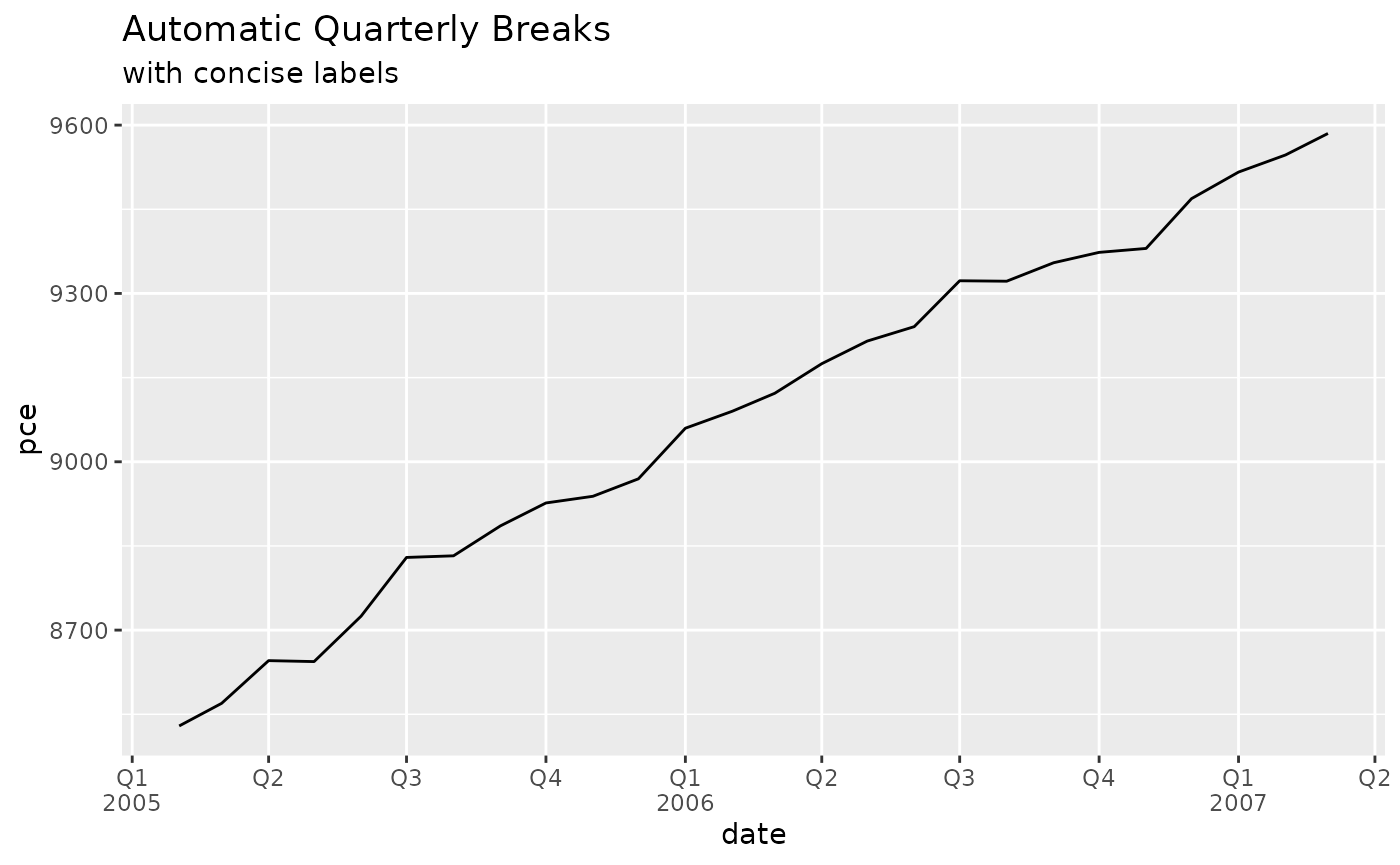
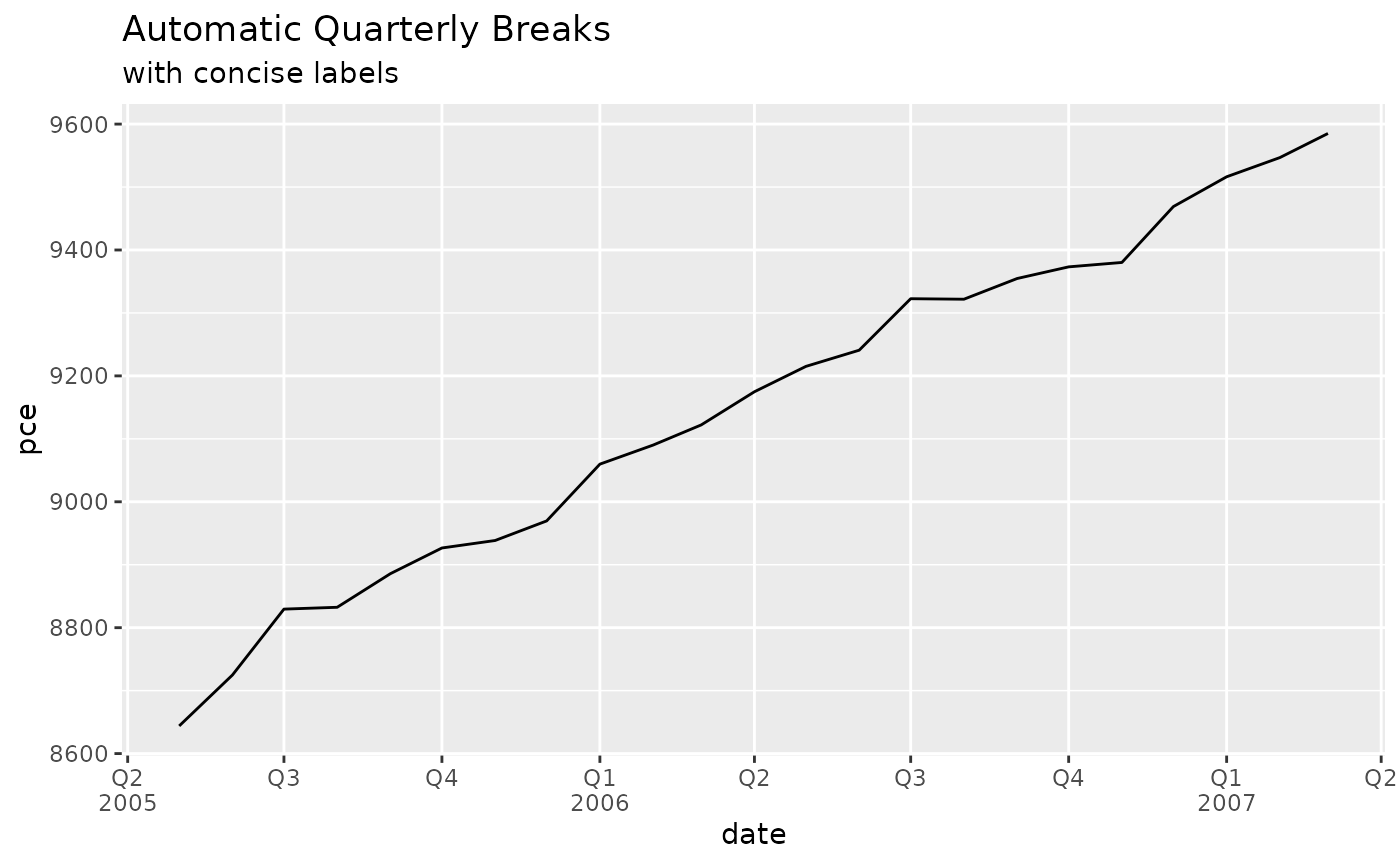
Deploying to gh-pages from @ mcaselli/mcrutils@fc2ebdc03b00fa961e46ab22be862fc64978b613 🚀

diff --git a/index.html b/index.html
@@ -78,21 +78,19 @@
 <span>  non_logical_factor <span class="op">=</span> <span class="fu"><a href="https://rdrr.io/r/base/factor.html" class="external-link">factor</a></span><span class="op">(</span><span class="fu"><a href="https://rdrr.io/r/base/c.html" class="external-link">c</a></span><span class="op">(</span><span class="st">"x"</span>, <span class="st">"y"</span>, <span class="st">"z"</span><span class="op">)</span><span class="op">)</span>,</span>
 <span>  mixed_char <span class="op">=</span> <span class="fu"><a href="https://rdrr.io/r/base/c.html" class="external-link">c</a></span><span class="op">(</span><span class="st">"T"</span>, <span class="st">"F"</span>, <span class="st">"a"</span><span class="op">)</span>,</span>
 <span>  mixed_factor <span class="op">=</span> <span class="fu"><a href="https://rdrr.io/r/base/factor.html" class="external-link">factor</a></span><span class="op">(</span><span class="fu"><a href="https://rdrr.io/r/base/c.html" class="external-link">c</a></span><span class="op">(</span><span class="st">"TRUE"</span>, <span class="st">"FALSE"</span>, <span class="st">"x"</span><span class="op">)</span><span class="op">)</span>,</span>
-<span>  numeric_col <span class="op">=</span> <span class="fu"><a href="https://rdrr.io/r/base/c.html" class="external-link">c</a></span><span class="op">(</span><span class="fl">1.1</span>, <span class="fl">2.2</span>, <span class="fl">3.3</span><span class="op">)</span>,</span>
-<span>  stringsAsFactors <span class="op">=</span> <span class="cn">FALSE</span></span>
+<span>  numeric_col <span class="op">=</span> <span class="fu"><a href="https://rdrr.io/r/base/c.html" class="external-link">c</a></span><span class="op">(</span><span class="fl">1.1</span>, <span class="fl">2.2</span>, <span class="fl">3.3</span><span class="op">)</span></span>
 <span><span class="op">)</span></span>
 <span></span>
 <span></span>
 <span><span class="va">ugly_data</span> <span class="op">|&gt;</span> <span class="fu"><a href="reference/normalize_logicals.html">normalize_logicals</a></span><span class="op">(</span><span class="op">)</span></span>
 <span><span class="co">#&gt; Converted "logical_char" and "logical_factor" columns to logical.</span></span>
-<span><span class="co">#&gt; # A tibble: 3 × 8</span></span>
+<span><span class="co">#&gt; # A tibble: 3 × 7</span></span>
 <span><span class="co">#&gt;   logical_char logical_factor non_logical_char non_logical_factor mixed_char</span></span>
 <span><span class="co">#&gt;   &lt;lgl&gt;        &lt;lgl&gt;          &lt;chr&gt;            &lt;fct&gt;              &lt;chr&gt;     </span></span>
 <span><span class="co">#&gt; 1 TRUE         TRUE           a                x                  T         </span></span>
 <span><span class="co">#&gt; 2 FALSE        FALSE          b                y                  F         </span></span>
 <span><span class="co">#&gt; 3 TRUE         TRUE           c                z                  a         </span></span>
-<span><span class="co">#&gt; # ℹ 3 more variables: mixed_factor &lt;fct&gt;, numeric_col &lt;dbl&gt;,</span></span>
-<span><span class="co">#&gt; #   stringsAsFactors &lt;lgl&gt;</span></span></code></pre></div>
+<span><span class="co">#&gt; # ℹ 2 more variables: mixed_factor &lt;fct&gt;, numeric_col &lt;dbl&gt;</span></span></code></pre></div>
 </div>
 <div class="section level3">
 <h3 id="year-to-date-helpers">Year-to-date helpers<a class="anchor" aria-label="anchor" href="#year-to-date-helpers"></a>
@@ -102,7 +100,7 @@
 <p>Below we have 2.5 years of historical sales data ending on June 1, 2025. How were the sales in the comparable period of 2024 and 2023?</p>
 <div class="sourceCode" id="cb3"><pre class="downlit sourceCode r">
 <code class="sourceCode R"><span><span class="fu"><a href="https://rdrr.io/r/base/Random.html" class="external-link">set.seed</a></span><span class="op">(</span><span class="fl">123</span><span class="op">)</span></span>
-<span><span class="va">sales</span> <span class="op">&lt;-</span> <span class="fu"><a href="https://rdrr.io/r/base/data.frame.html" class="external-link">data.frame</a></span><span class="op">(</span></span>
+<span><span class="va">sales</span> <span class="op">&lt;-</span> <span class="fu"><a href="https://tibble.tidyverse.org/reference/tibble.html" class="external-link">tibble</a></span><span class="op">(</span></span>
 <span>  date <span class="op">=</span> <span class="fu"><a href="https://rdrr.io/r/base/seq.html" class="external-link">seq</a></span><span class="op">(</span></span>
 <span>    from <span class="op">=</span> <span class="fu"><a href="https://rdrr.io/r/base/as.Date.html" class="external-link">as.Date</a></span><span class="op">(</span><span class="st">"2023-01-01"</span><span class="op">)</span>,</span>
 <span>    to <span class="op">=</span> <span class="fu"><a href="https://rdrr.io/r/base/as.Date.html" class="external-link">as.Date</a></span><span class="op">(</span><span class="st">"2025-06-01"</span><span class="op">)</span>,</span>
@@ -112,7 +110,9 @@
 <span><span class="op">)</span></span>
 <span></span>
 <span><span class="fu"><a href="https://rdrr.io/r/utils/head.html" class="external-link">head</a></span><span class="op">(</span><span class="va">sales</span><span class="op">)</span></span>
-<span><span class="co">#&gt;         date amount</span></span>
+<span><span class="co">#&gt; # A tibble: 6 × 2</span></span>
+<span><span class="co">#&gt;   date       amount</span></span>
+<span><span class="co">#&gt;   &lt;date&gt;      &lt;int&gt;</span></span>
 <span><span class="co">#&gt; 1 2023-01-01     94</span></span>
 <span><span class="co">#&gt; 2 2023-02-01    111</span></span>
 <span><span class="co">#&gt; 3 2023-03-01     83</span></span>
@@ -171,7 +171,7 @@
 <code class="sourceCode R"><span><span class="kw"><a href="https://rdrr.io/r/base/library.html" class="external-link">library</a></span><span class="op">(</span><span class="va"><a href="https://ggplot2.tidyverse.org" class="external-link">ggplot2</a></span><span class="op">)</span></span>
 <span></span>
 <span><span class="va">economics</span> <span class="op">|&gt;</span></span>
-<span>  <span class="fu"><a href="https://dplyr.tidyverse.org/reference/filter.html" class="external-link">filter</a></span><span class="op">(</span><span class="va">date</span> <span class="op">&gt;=</span> <span class="st">"2005-02-01"</span>, <span class="va">date</span> <span class="op">&lt;=</span> <span class="st">"2007-03-01"</span><span class="op">)</span> <span class="op">|&gt;</span></span>
+<span>  <span class="fu"><a href="https://dplyr.tidyverse.org/reference/filter.html" class="external-link">filter</a></span><span class="op">(</span><span class="va">date</span> <span class="op">&gt;=</span> <span class="st">"2005-05-01"</span>, <span class="va">date</span> <span class="op">&lt;=</span> <span class="st">"2007-03-01"</span><span class="op">)</span> <span class="op">|&gt;</span></span>
 <span>  <span class="fu"><a href="https://ggplot2.tidyverse.org/reference/ggplot.html" class="external-link">ggplot</a></span><span class="op">(</span><span class="fu"><a href="https://ggplot2.tidyverse.org/reference/aes.html" class="external-link">aes</a></span><span class="op">(</span><span class="va">date</span>, <span class="va">pce</span><span class="op">)</span><span class="op">)</span> <span class="op">+</span></span>
 <span>  <span class="fu"><a href="https://ggplot2.tidyverse.org/reference/geom_path.html" class="external-link">geom_line</a></span><span class="op">(</span><span class="op">)</span> <span class="op">+</span></span>
 <span>  <span class="fu"><a href="https://ggplot2.tidyverse.org/reference/scale_date.html" class="external-link">scale_x_date</a></span><span class="op">(</span></span>

diff --git a/articles/mcrutils.html b/articles/mcrutils.html
@@ -148,7 +148,7 @@ only including the year when it changes from the previous label.</p>
 <code class="sourceCode R"><span><span class="kw"><a href="https://rdrr.io/r/base/library.html" class="external-link">library</a></span><span class="op">(</span><span class="va"><a href="https://ggplot2.tidyverse.org" class="external-link">ggplot2</a></span><span class="op">)</span></span>
 <span></span>
 <span><span class="va">economics</span> <span class="op">|&gt;</span></span>
-<span>  <span class="fu"><a href="https://dplyr.tidyverse.org/reference/filter.html" class="external-link">filter</a></span><span class="op">(</span><span class="va">date</span> <span class="op">&gt;=</span> <span class="st">"2005-02-01"</span>, <span class="va">date</span> <span class="op">&lt;=</span> <span class="st">"2007-03-01"</span><span class="op">)</span> <span class="op">|&gt;</span></span>
+<span>  <span class="fu"><a href="https://dplyr.tidyverse.org/reference/filter.html" class="external-link">filter</a></span><span class="op">(</span><span class="va">date</span> <span class="op">&gt;=</span> <span class="st">"2005-05-01"</span>, <span class="va">date</span> <span class="op">&lt;=</span> <span class="st">"2007-03-01"</span><span class="op">)</span> <span class="op">|&gt;</span></span>
 <span>  <span class="fu"><a href="https://ggplot2.tidyverse.org/reference/ggplot.html" class="external-link">ggplot</a></span><span class="op">(</span><span class="fu"><a href="https://ggplot2.tidyverse.org/reference/aes.html" class="external-link">aes</a></span><span class="op">(</span><span class="va">date</span>, <span class="va">pce</span><span class="op">)</span><span class="op">)</span> <span class="op">+</span></span>
 <span>  <span class="fu"><a href="https://ggplot2.tidyverse.org/reference/geom_path.html" class="external-link">geom_line</a></span><span class="op">(</span><span class="op">)</span> <span class="op">+</span></span>
 <span>  <span class="fu"><a href="https://ggplot2.tidyverse.org/reference/scale_date.html" class="external-link">scale_x_date</a></span><span class="op">(</span></span>
